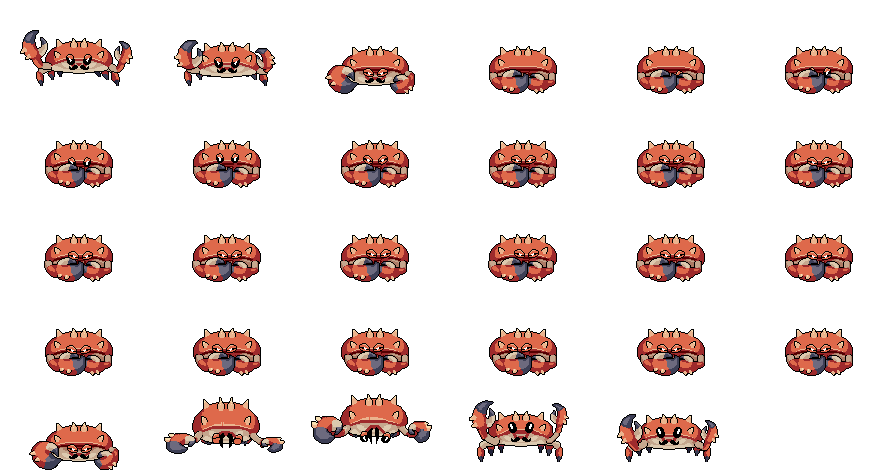
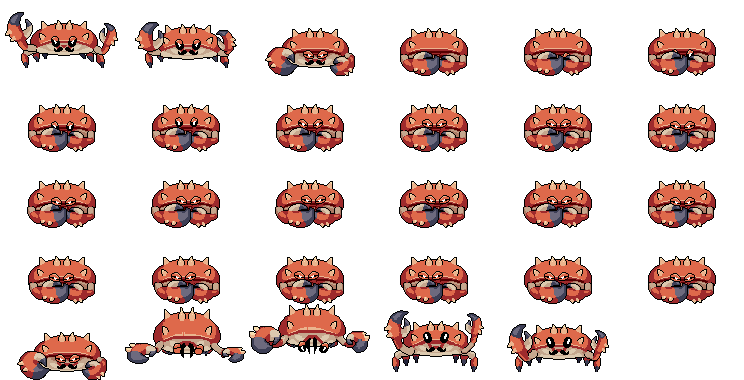
[FIX] fix boss shadow, mod some boss sprite

diff --git a/moon/objects/actors/animate.c b/moon/objects/actors/animate.c
@@ -42,6 +42,21 @@ static recti_t actor_generate_mask(actor_t *act)
 }
 
 ///////////////////////////////////////////////////////////////////////////////
+static void boss_draw_shadow(actor_t *act)
+{
+    sfSprite *shadow = sfSprite_create();
+
+    sfSprite_setTexture(shadow, Assets.ui[UI_SHADOW_BOSS]->self, false);
+    sfSprite_setOrigin(shadow, V2F(48.5f, 19.0f));
+    sfSprite_setPosition(shadow, add2f(act->position, V2F(act->scale.x < 0.0f ?
+        1.0f : 0.0f, act->self->sheets[act->sheetId]->image->mask.height /
+        2.0f)));
+    sfSprite_setColor(shadow, RGBA(255, 255, 255, 150));
+    sfRenderWindow_drawSprite(Win.self, shadow, NULL);
+    sfSprite_destroy(shadow);
+}
+
+///////////////////////////////////////////////////////////////////////////////
 static void actor_draw_shadow(actor_t *act)
 {
     recti_t mask = {32, 4, 20, 5};
@@ -62,6 +77,17 @@ static void actor_draw_shadow(actor_t *act)
 }
 
 ///////////////////////////////////////////////////////////////////////////////
+static void cast_shadow(actor_t *act)
+{
+    if (act->castShadow == false)
+        return;
+    if (act->self->id == CREATURE_CRAB_BOSS)
+        boss_draw_shadow(act);
+    else
+        actor_draw_shadow(act);
+}
+
+///////////////////////////////////////////////////////////////////////////////
 void actor_draw(actor_t *act)
 {
     sheet_t *sh = NULL;
@@ -78,6 +104,6 @@ void actor_draw(actor_t *act)
     sfSprite_setTexture(act->sprite, act->isVariant ?
         sh->variants[act->variantId]->self : sh->image->self, false);
     sfSprite_setTextureRect(act->sprite, actor_generate_mask(act));
-    actor_draw_shadow(act);
+    cast_shadow(act);
     sfRenderWindow_drawSprite(Win.self, act->sprite, NULL);
 }

diff --git a/source/entity/boss/action.c b/source/entity/boss/action.c
@@ -42,12 +42,11 @@ static void spin_dash(entity_t *crab)
     if ((int)crab->bounce >= 9){
         crab->bounce = 0;
         crab->status = Dazed;
+        actor_set_sheet(crab->actor, "fizzy");
         actor_set_anim(crab->actor, "spin_transition");
         crab->last_action = Time.currentTime;
         return;
     }
-    actor_set_sheet(crab->actor, "spin");
-    actor_set_anim(crab->actor, "spin");
 }
 
 static void bubble_expansion(entity_t *crab)
@@ -91,19 +90,15 @@ static void bubble_defense(entity_t *crab)
 ///////////////////////////////////////////////////////////////////////////////
 static void daze_check(entity_t *crab)
 {
-    if (CMP(crab->actor->self->sheets[crab->actor->sheetId]->name, "spin") &&
-        crab->actor->done){
+    if (CMP(crab->actor->self->sheets[crab->actor->sheetId]->name, "fizzy") &&
+        crab->actor->done)
         actor_set_anim(crab->actor, "fizzy");
-    }
     if (Time.currentTime - crab->last_action < crab->dizzy)
         return;
-    if (!CMP(crab->actor->self->sheets[crab->actor->sheetId]->name, "walk")) {
+    if (!CMP(crab->actor->self->sheets[crab->actor->sheetId]->name, "walk"))
         actor_set_sheet(crab->actor, "unspin");
-        actor_set_anim(crab->actor, "unspin");
-    }
     if (crab->actor->done){
         actor_set_sheet(crab->actor, "walk");
-        actor_set_anim(crab->actor, "walk");
         crab->status = ranger;
         crab->vector = (v2f_t){5.0f, 0.0f};
     }

diff --git a/include/rpg/entity.h b/include/rpg/entity.h
@@ -165,7 +165,7 @@ typedef struct creature_stats_s {
 static const creature_stats_t Stats[CREATURE_COUNT] = {
     {120, 0, 0, 0, 0, 0, 0, 0, 1, 0, 0},                        //player
     {120, 0.8, 0, 0, Bomber, 1000, 1, 3000, 1, 0, 1},              //duck
-    {850, 0.5, 0, 100, Boss, 3000, WEAPON_SHOTGUN_SKULL, 1000, 12, 90,
+    {850, 0.5, 0, 100, Boss, 3000, WEAPON_SHOTGUN_SKULL, 1000, 12, 120,
         1}, //Cboss
     {85, 0.5f, 300.0f, 400.0f, Sniper, 0, 35, 4000, 1, 0, 0},      //bald rat
     {120, 0.4f, 0.0f, 100.0f, Spinjutsu, 3000, -1, 2000, 0, 0, 0}, //baby crab

diff --git a/include/moon/assets.h b/include/moon/assets.h
@@ -486,6 +486,7 @@ typedef enum ui_element_e {
     UI_PNJ_MARK_ITEM,
     UI_PNJ_JOURN,
     UI_REPORT,
+    UI_SHADOW_BOSS,
     UI_ELEMENT_COUNT
 } ui_element_t;
 
@@ -544,7 +545,8 @@ static const cstring_t UI_ELEMENTS_PATHS[UI_ELEMENT_COUNT] = {
     DIR_UI"/portraits/junkcat.png",
     DIR_UI"/portraits/dough.png",
     DIR_UI"/portraits/blisstaker.png",
-    DIR_UI"/reports/report.png"
+    DIR_UI"/reports/report.png",
+    DIR_UI"/game/boss_shadow.png"
 };
 
 ///////////////////////////////////////////////////////////////////////////////

diff --git a/source/entity/update.c b/source/entity/update.c
@@ -16,13 +16,16 @@ static void intro(entity_t *boss)
 {
     if (boss->has_spawn)
         return;
+    boss->actor->castShadow = false;
     actor_set_sheet(boss->actor, "intro");
-    actor_set_anim(boss->actor, "intro");
     if (boss->actor->done){
         boss->movement = Time.currentTime;
         boss->has_spawn = !boss->has_spawn;
+
+        boss->actor->castShadow = true;
     }
 }
+
 
 ///////////////////////////////////////////////////////////////////////////////
 static void entity_update(entity_t *evil)

diff --git a/source/entity/boss/movement.c b/source/entity/boss/movement.c
@@ -61,7 +61,7 @@ static void idle(entity_t *boss)
 ///////////////////////////////////////////////////////////////////////////////
 static void reset_pos(entity_t *crab)
 {
-    crab->wanted_position = V2F(75.0f, -100.0f);
+    crab->wanted_position = V2F(75.0f, -120.0f);
     if (equal2f(V2F(floorf(crab->wanted_position.x),
         floorf(crab->wanted_position.y)), V2F(floorf(crab->actor->position.x),
         floorf(crab->actor->position.y)))){

diff --git a/source/entity/spinning.c b/source/entity/spinning.c
@@ -97,6 +97,8 @@ void get_wanted_position(entity_t *crab)
 ///////////////////////////////////////////////////////////////////////////////
 void spinning_movement(entity_t *evil)
 {
+    actor_set_sheet(evil->actor, "spin");
+    actor_set_anim(evil->actor, "spin");
     if (equal2f(V2F(floorf(evil->wanted_position.x),
         floorf(evil->wanted_position.y)), V2F(floorf(evil->actor->position.x),
         floorf(evil->actor->position.y))))

diff --git a/include/moon/objects.h b/include/moon/objects.h
@@ -58,6 +58,7 @@ typedef struct actor_s {
     bool_t dead;
     uint_t shield;
     uint_t charges;
+    bool_t castShadow;
 } actor_t;
 
 ///////////////////////////////////////////////////////////////////////////////

diff --git a/moon/objects/actors/create.c b/moon/objects/actors/create.c
@@ -15,6 +15,7 @@ static void actor_relay(actor_t *act)
 {
     act->shield = 0;
     act->charges = 0;
+    act->castShadow = true;
 }
 
 ///////////////////////////////////////////////////////////////////////////////
